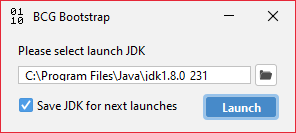
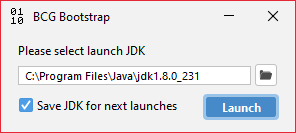
new image

Changed region(s): [[0.0608, 0.5113, 0.8514, 0.6617]]

diff --git a/src/main/java/com/artur114/bytecodegrab/main/AppBootstrap.java b/src/main/java/com/artur114/bytecodegrab/main/AppBootstrap.java
@@ -58,7 +58,8 @@ public class AppBootstrap extends JFrame {
         panelJdk.setLayout(new BoxLayout(panelJdk, BoxLayout.X_AXIS));
         panelJdk.add(Box.createHorizontalStrut(15));
         JTextField field = new JTextField();
-        field.setMaximumSize(new Dimension(1000000, 22));
+        field.setMaximumSize(new Dimension(1000000, 23));
+        field.setFont(field.getFont().deriveFont(11.0F));
         field.setText(this.config.jdkPath);
         panelJdk.add(field);
         JButton button = new JButton(Icons.iconQuad("folder.png", 16));
